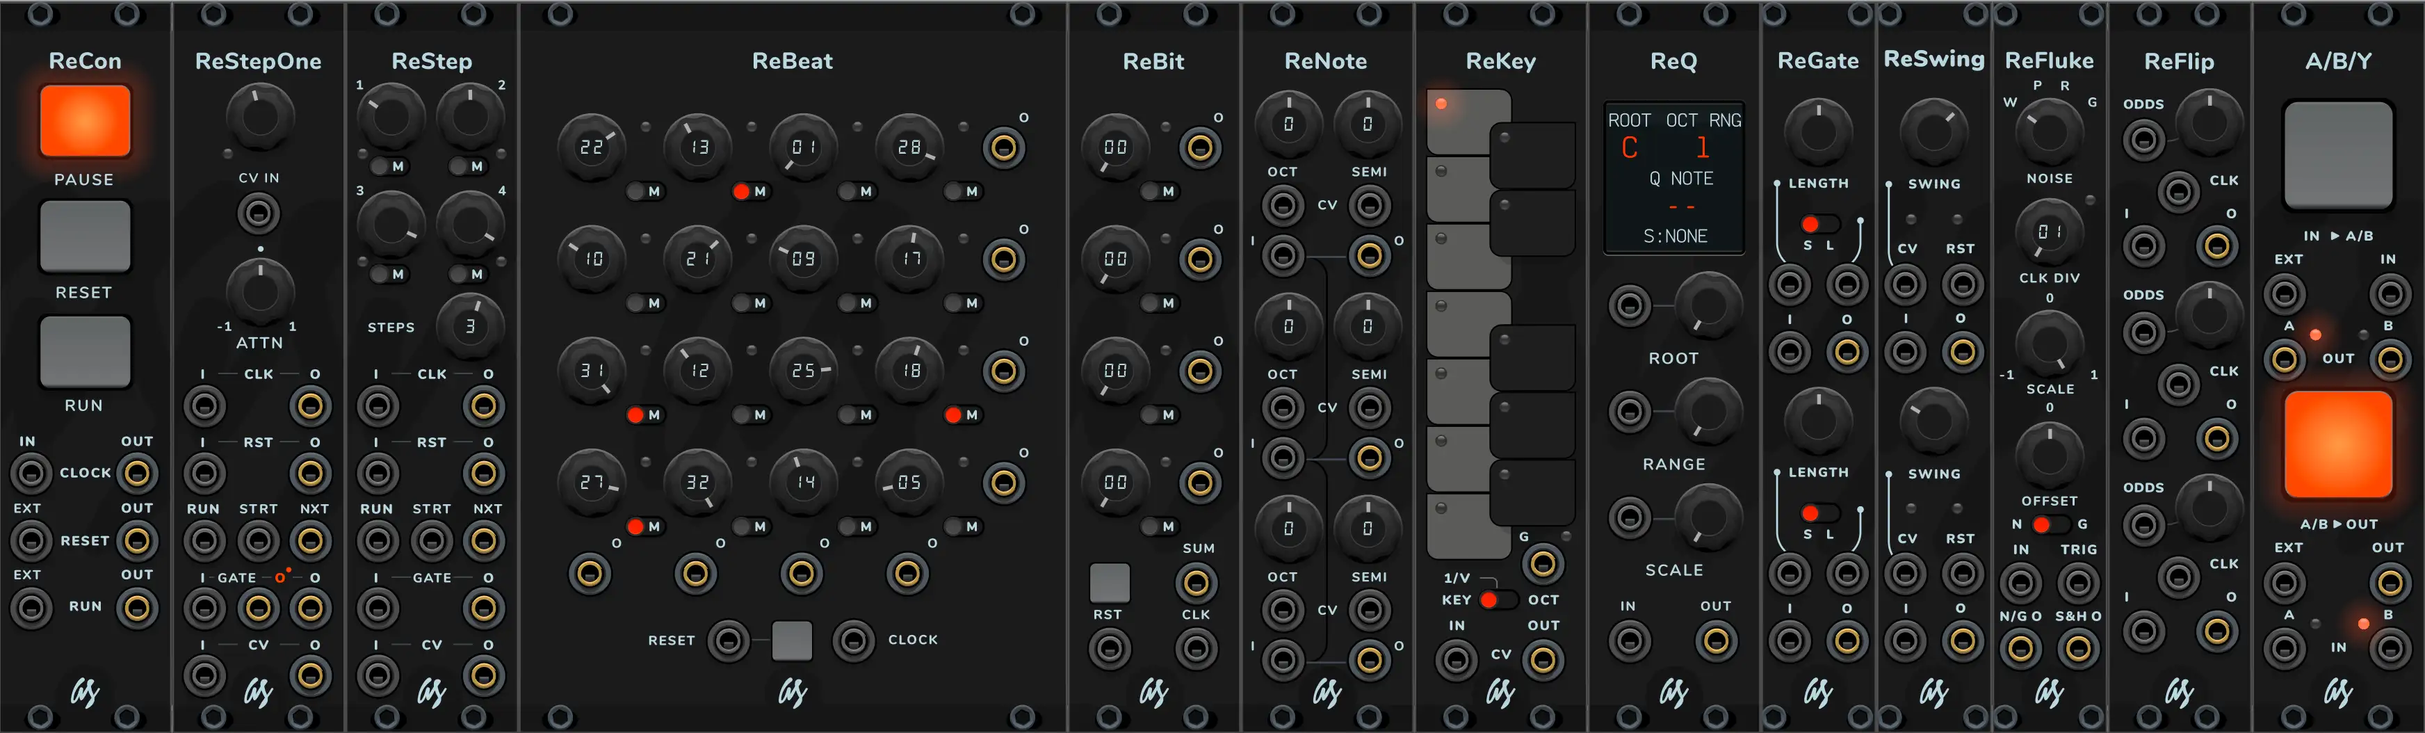
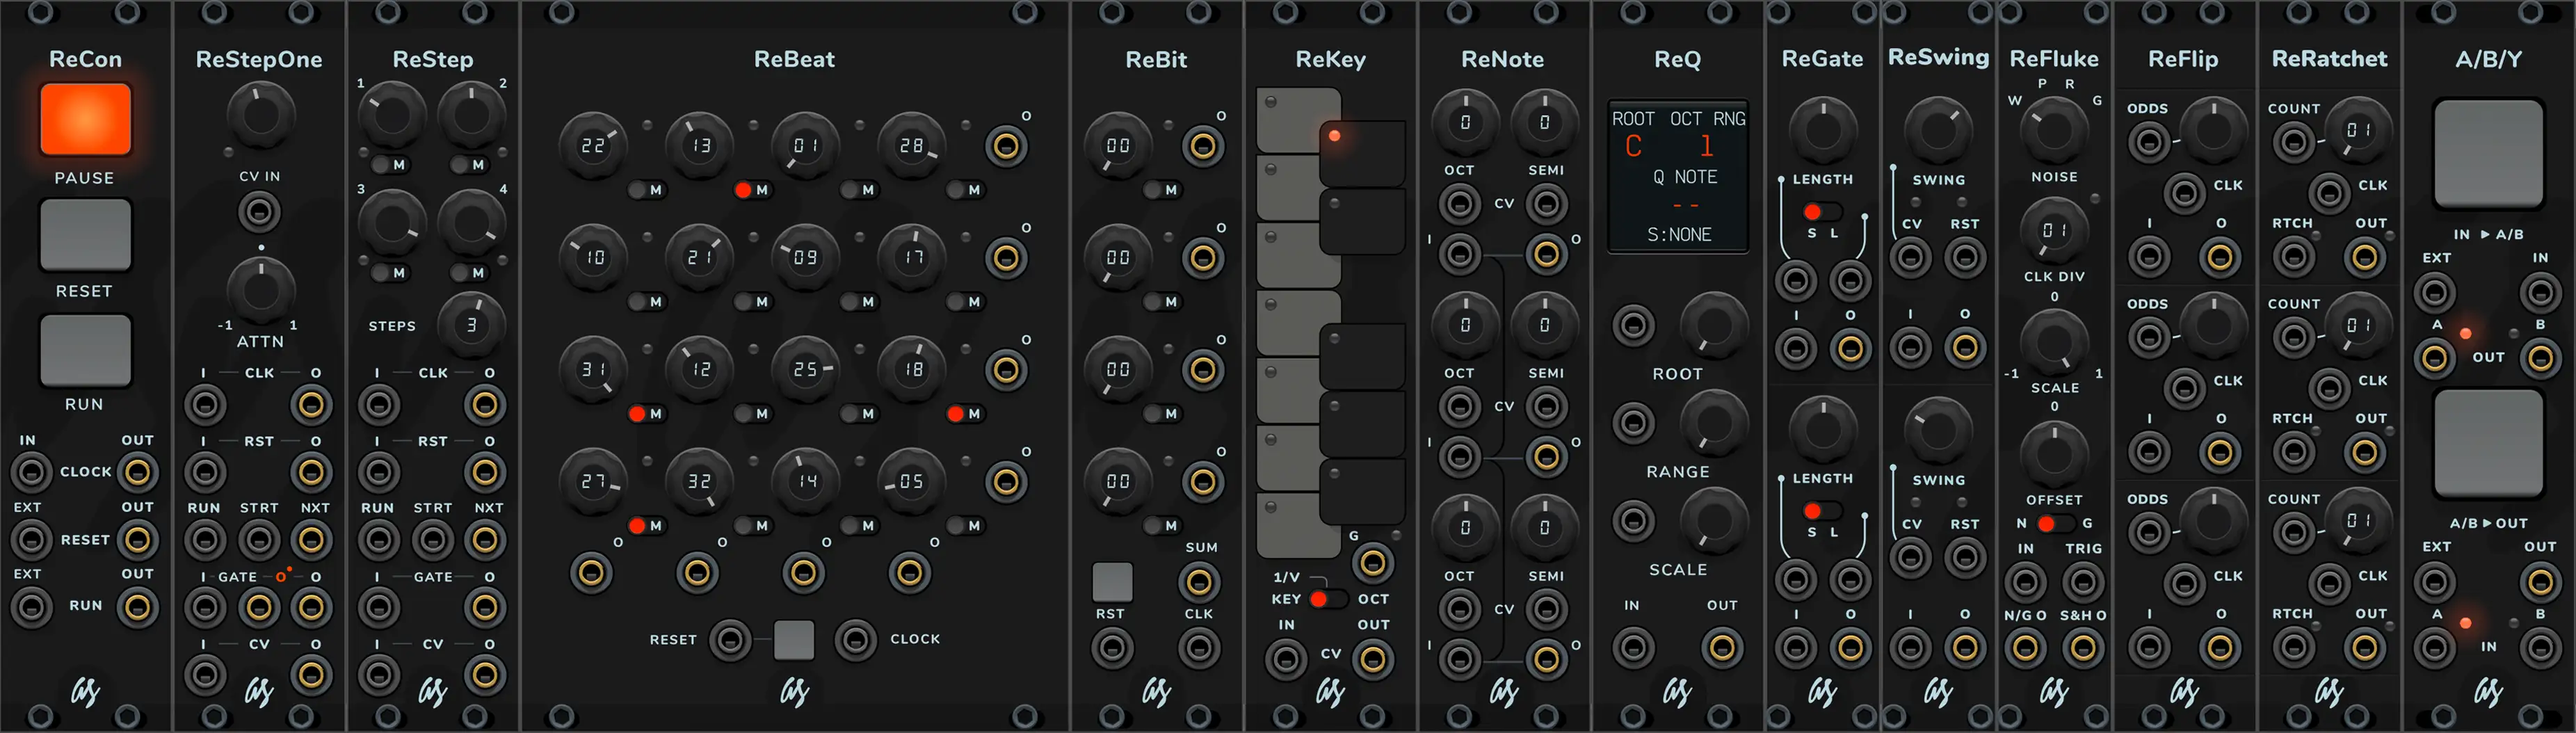
seqs-n-tools: 2.2.0 - imagen de módulos con ReRatchet y changelog

Changed region(s): [[0.0, 0.0, 1.0, 1.0], [0.2812, 0.9412, 0.3438, 0.9715], [0.2812, 0.0607, 0.3438, 0.0911]]

diff --git a/seqs-n-tools/index.html b/seqs-n-tools/index.html
@@ -113,8 +113,8 @@
         <button type="button" data-skin="dark" aria-pressed="true">Dark</button>
         <button type="button" data-skin="light" aria-pressed="false">Light</button>
       </div>
-      <img id="modules-img" src="img/seq-modules-dark.webp" width="3488" height="1054"
-           alt="AS Seqs &amp; Tools modules: ReCon, ReStepOne, ReStep, ReBeat, ReBit, ReNote, ReKey, ReQ, ReGate, ReSwing, ReFluke, ReFlip and A/B/Y">
+      <img id="modules-img" src="img/seq-modules-dark.webp" width="3704" height="1054"
+           alt="AS Seqs &amp; Tools modules: ReCon, ReStepOne, ReStep, ReBeat, ReBit, ReKey, ReNote, ReQ, ReGate, ReSwing, ReFluke, ReFlip, ReRatchet and A/B/Y">
     </section>
 
     <div class="cols">
@@ -129,6 +129,20 @@
 
     <section class="changelog" id="changelog">
       <h2>Changelog</h2>
+
+      <h3>2.2.0</h3>
+
+      <h4>New</h4>
+      <ul>
+        <li><strong>ReRatchet (new module, 5 HP):</strong><br>Triple trigger ratchet. Each clock pulse comes out as a burst of 1 to 8 pulses spread over the time to the next pulse, with a display on the COUNT knob. RTCH chooses which pulses become bursts (from ReFlip for random rolls, from ReBit or ReStep for patterns); Count CV adds 0–7. Works with swung clocks from ReSwing. CLK and RTCH of each channel are normalled to the channel above.</li>
+        <li><strong>aBy is polyphonic:</strong><br>The signal inputs and outputs carry up to 16 channels, switched together with one fade. In the bottom section the output keeps the larger channel count of A and B in both positions. A mono input next to a polyphonic one is copied to every channel. Mono patches work as before.</li>
+      </ul>
+
+      <h4>Changed</h4>
+      <ul>
+        <li><strong>Light tooltips:</strong><br>Hover a light to see what it shows: the gate on ReKey and ReStepOne, the current step on ReStep, the routing on aBy, the cells of ReBeat and ReBit and the clock on ReFluke.</li>
+        <li><strong>Aligned panels:</strong><br>ReGate, ReSwing, ReFlip, ReRatchet, ReQ and aBy share the same rows for their jacks, so they line up when placed side by side. Only positions changed: saved patches load as before.</li>
+      </ul>
 
       <h3>2.1.0</h3>
       <p>Requires VCV Rack 2.4.0 or later.</p>
